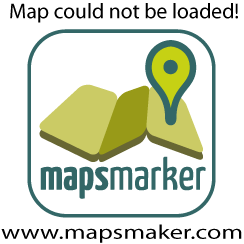
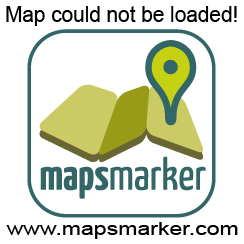
fix url in tile error image; add rel="nofollow" to qr-code-links

Changed region(s): [[0.0, 0.0, 0.9754, 0.1148], [0.0, 0.918, 1.0, 1.0]]

diff --git a/inc/showmap.php b/inc/showmap.php
@@ -210,7 +210,7 @@ if (basename($_SERVER['SCRIPT_FILENAME']) == 'showmap.php') { die ("Please do no
 				$lmm_out .= '<a href="' . LEAFLET_PLUGIN_URL . 'leaflet-fullscreen.php?marker=' . $id . '" style="text-decoration:none;" title="' . esc_attr__('Open standalone map in fullscreen mode','lmm') . '" target="_blank"><img src="' . LEAFLET_PLUGIN_URL . 'inc/img/icon-fullscreen.png" width="14" height="14" alt="Fullscreen-Logo" class="lmm-panel-api-images" /></a>';
 			}
 			if ( (isset($lmm_options[ 'defaults_marker_panel_qr_code' ] ) == TRUE ) && ( $lmm_options[ 'defaults_marker_panel_qr_code' ] == 1 ) ) {
-				$lmm_out .= '<a href="' . LEAFLET_PLUGIN_URL . 'leaflet-qr.php?marker=' . $id . '" target="_blank" title="' . esc_attr__('Create QR code image for standalone map in fullscreen mode','lmm') . '"><img src="' . LEAFLET_PLUGIN_URL . 'inc/img/icon-qr-code.png" width="14" height="14" alt="QR-code-logo" class="lmm-panel-api-images" /></a>';
+				$lmm_out .= '<a href="' . LEAFLET_PLUGIN_URL . 'leaflet-qr.php?marker=' . $id . '" target="_blank" title="' . esc_attr__('Create QR code image for standalone map in fullscreen mode','lmm') . '" rel="nofollow"><img src="' . LEAFLET_PLUGIN_URL . 'inc/img/icon-qr-code.png" width="14" height="14" alt="QR-code-logo" class="lmm-panel-api-images" /></a>';
 			}
 			if ( (isset($lmm_options[ 'defaults_marker_panel_geojson' ] ) == TRUE ) && ( $lmm_options[ 'defaults_marker_panel_geojson' ] == 1 ) ) {
 				$lmm_out .= '<a href="' . LEAFLET_PLUGIN_URL . 'leaflet-geojson.php?marker=' . $id . '&amp;callback=jsonp&amp;full=yes&amp;full_icon_url=yes" style="text-decoration:none;" title="' . esc_attr__('Export as GeoJSON','lmm') . '" target="_blank"><img src="' . LEAFLET_PLUGIN_URL . 'inc/img/icon-json.png" width="14" height="14" alt="GeoJSON-Logo" class="lmm-panel-api-images" /></a>';
@@ -234,7 +234,7 @@ if (basename($_SERVER['SCRIPT_FILENAME']) == 'showmap.php') { die ("Please do no
 				$lmm_out .= '<a href="' . LEAFLET_PLUGIN_URL . 'leaflet-fullscreen.php?layer=' . $id . '" style="text-decoration:none;" title="' . esc_attr__('Open standalone map in fullscreen mode','lmm') . '" target="_blank"><img src="' . LEAFLET_PLUGIN_URL . 'inc/img/icon-fullscreen.png" width="14" height="14" alt="Fullscreen-Logo" class="lmm-panel-api-images" /></a>';
 			}
 			if ( (isset($lmm_options[ 'defaults_layer_panel_qr_code' ] ) == TRUE ) && ( $lmm_options[ 'defaults_layer_panel_qr_code' ] == 1 ) ) {
-				$lmm_out .= '<a href="' . LEAFLET_PLUGIN_URL . 'leaflet-qr.php?layer=' . $id . '&amp;callback=jsonp&amp;full=yes&amp;full_icon_url=yes" target="_blank" title="' . esc_attr__('Create QR code image for standalone map in fullscreen mode','lmm') . '"><img src="' . LEAFLET_PLUGIN_URL . 'inc/img/icon-qr-code.png" width="14" height="14" alt="QR-code-logo" class="lmm-panel-api-images" /></a>';
+				$lmm_out .= '<a href="' . LEAFLET_PLUGIN_URL . 'leaflet-qr.php?layer=' . $id . '&amp;callback=jsonp&amp;full=yes&amp;full_icon_url=yes" target="_blank" title="' . esc_attr__('Create QR code image for standalone map in fullscreen mode','lmm') . '" rel="nofollow"><img src="' . LEAFLET_PLUGIN_URL . 'inc/img/icon-qr-code.png" width="14" height="14" alt="QR-code-logo" class="lmm-panel-api-images" /></a>';
 			}
 			if ( (isset($lmm_options[ 'defaults_layer_panel_geojson' ] ) == TRUE ) && ( $lmm_options[ 'defaults_layer_panel_geojson' ] == 1 ) && ($multi_layer_map == 0 ) ) {
 				$lmm_out .= '<a href="' . LEAFLET_PLUGIN_URL . 'leaflet-geojson.php?layer=' . $id . '&amp;callback=jsonp&amp;full=yes&amp;full_icon_url=yes" style="text-decoration:none;" title="' . esc_attr__('Export as GeoJSON','lmm') . '" target="_blank"><img src="' . LEAFLET_PLUGIN_URL . 'inc/img/icon-json.png" width="14" height="14" alt="GeoJSON-Logo" class="lmm-panel-api-images" /></a>';
@@ -393,7 +393,7 @@ if (basename($_SERVER['SCRIPT_FILENAME']) == 'showmap.php') { die ("Please do no
 			$lmm_out .= '&nbsp;<a href="' . LEAFLET_PLUGIN_URL . 'leaflet-kml.php?marker=' . $row['markerid'] . '&amp;name=' . $lmm_options[ 'misc_kml' ] . '" style="text-decoration:none;" title="' . esc_attr__('Export as KML for Google Earth/Google Maps','lmm') . '"><img src="' . LEAFLET_PLUGIN_URL . 'inc/img/icon-kml.png" width="14" height="14" alt="KML-Logo" class="lmm-panel-api-images" /></a>';
 		}
 		if ( (isset($lmm_options[ 'defaults_layer_listmarkers_api_qr_code' ] ) == TRUE ) && ( $lmm_options[ 'defaults_layer_listmarkers_api_qr_code' ] == 1 ) ) {
-			$lmm_out .= '&nbsp;<a href="' . LEAFLET_PLUGIN_URL . 'leaflet-qr.php?marker=' . $row['markerid'] . '&amp;callback=jsonp&amp;full=yes&amp;full_icon_url=yes" target="_blank" title="' . esc_attr__('Create QR code image for standalone map in fullscreen mode','lmm') . '"><img src="' . LEAFLET_PLUGIN_URL . 'inc/img/icon-qr-code.png" width="14" height="14" alt="QR-code-logo" class="lmm-panel-api-images" /></a>';
+			$lmm_out .= '&nbsp;<a href="' . LEAFLET_PLUGIN_URL . 'leaflet-qr.php?marker=' . $row['markerid'] . '&amp;callback=jsonp&amp;full=yes&amp;full_icon_url=yes" target="_blank" title="' . esc_attr__('Create QR code image for standalone map in fullscreen mode','lmm') . '" rel="nofollow"><img src="' . LEAFLET_PLUGIN_URL . 'inc/img/icon-qr-code.png" width="14" height="14" alt="QR-code-logo" class="lmm-panel-api-images" /></a>';
 		}
 		if ( (isset($lmm_options[ 'defaults_layer_listmarkers_api_geojson' ] ) == TRUE ) && ( $lmm_options[ 'defaults_layer_listmarkers_api_geojson' ] == 1 ) && ($multi_layer_map == 0 ) ) {
 			$lmm_out .= '&nbsp;<a href="' . LEAFLET_PLUGIN_URL . 'leaflet-geojson.php?marker=' . $row['markerid'] . '&amp;callback=jsonp&amp;full=yes&amp;full_icon_url=yes" style="text-decoration:none;" title="' . esc_attr__('Export as GeoJSON','lmm') . '" target="_blank"><img src="' . LEAFLET_PLUGIN_URL . 'inc/img/icon-json.png" width="14" height="14" alt="GeoJSON-Logo" class="lmm-panel-api-images" /></a>';

diff --git a/leaflet-fullscreen.php b/leaflet-fullscreen.php
@@ -163,7 +163,7 @@ if (isset($_GET['layer'])) {
 			$lmm_out .= '<a href="' . LEAFLET_PLUGIN_URL . 'leaflet-fullscreen.php?layer=' . $id . '" style="text-decoration:none;" title="' . esc_attr__('Open standalone map in fullscreen mode','lmm') . '" target="_blank"><img src="' . LEAFLET_PLUGIN_URL . 'inc/img/icon-fullscreen.png" width="14" height="14" alt="Fullscreen-Logo" class="lmm-panel-api-images" /></a>';
 		}
 		if ( (isset($lmm_options[ 'defaults_layer_panel_qr_code' ] ) == TRUE ) && ( $lmm_options[ 'defaults_layer_panel_qr_code' ] == 1 ) ) {
-			$lmm_out .= '<a href="' . LEAFLET_PLUGIN_URL . 'leaflet-qr.php?layer=' . $id . '" target="_blank" title="' . esc_attr__('Create QR code image for standalone map in fullscreen mode','lmm') . '"><img src="' . LEAFLET_PLUGIN_URL . 'inc/img/icon-qr-code.png" width="14" height="14" alt="QR-code-logo" class="lmm-panel-api-images" /></a>';
+			$lmm_out .= '<a href="' . LEAFLET_PLUGIN_URL . 'leaflet-qr.php?layer=' . $id . '" target="_blank" title="' . esc_attr__('Create QR code image for standalone map in fullscreen mode','lmm') . '" rel="nofollow"><img src="' . LEAFLET_PLUGIN_URL . 'inc/img/icon-qr-code.png" width="14" height="14" alt="QR-code-logo" class="lmm-panel-api-images" /></a>';
 		}
 		if ( (isset($lmm_options[ 'defaults_layer_panel_geojson' ] ) == TRUE ) && ( $lmm_options[ 'defaults_layer_panel_geojson' ] == 1 ) && ($multi_layer_map == 0) ) {
 			$lmm_out .= '<a href="' . LEAFLET_PLUGIN_URL . 'leaflet-geojson.php?layer=' . $id . '&amp;callback=jsonp&amp;full=yes&amp;full_icon_url=yes" style="text-decoration:none;" title="' . esc_attr__('Export as GeoJSON','lmm') . '" target="_blank"><img src="' . LEAFLET_PLUGIN_URL . 'inc/img/icon-json.png" width="14" height="14" alt="GeoJSON-Logo" class="lmm-panel-api-images" /></a>';
@@ -666,7 +666,7 @@ elseif (isset($_GET['marker'])) {
 			$lmm_out .= '<a href="' . LEAFLET_PLUGIN_URL . 'leaflet-fullscreen.php?marker=' . $id . '" style="text-decoration:none;" title="' . esc_attr__('Open standalone map in fullscreen mode','lmm') . '" target="_blank"><img src="' . LEAFLET_PLUGIN_URL . 'inc/img/icon-fullscreen.png" width="14" height="14" alt="Fullscreen-Logo" class="lmm-panel-api-images" /></a>';
 		}
 		if ( (isset($lmm_options[ 'defaults_marker_panel_qr_code' ] ) == TRUE ) && ( $lmm_options[ 'defaults_marker_panel_qr_code' ] == 1 ) ) {
-			$lmm_out .= '<a href="' . LEAFLET_PLUGIN_URL . 'leaflet-qr.php?marker=' . $id . '" target="_blank" title="' . esc_attr__('Create QR code image for standalone map in fullscreen mode','lmm') . '"><img src="' . LEAFLET_PLUGIN_URL . 'inc/img/icon-qr-code.png" width="14" height="14" alt="QR-code-logo" class="lmm-panel-api-images" /></a>';
+			$lmm_out .= '<a href="' . LEAFLET_PLUGIN_URL . 'leaflet-qr.php?marker=' . $id . '" target="_blank" title="' . esc_attr__('Create QR code image for standalone map in fullscreen mode','lmm') . '" rel="nofollow"><img src="' . LEAFLET_PLUGIN_URL . 'inc/img/icon-qr-code.png" width="14" height="14" alt="QR-code-logo" class="lmm-panel-api-images" /></a>';
 		}
 		if ( (isset($lmm_options[ 'defaults_marker_panel_geojson' ] ) == TRUE ) && ( $lmm_options[ 'defaults_marker_panel_geojson' ] == 1 ) ) {
 			$lmm_out .= '<a href="' . LEAFLET_PLUGIN_URL . 'leaflet-geojson.php?marker=' . $id . '&amp;callback=jsonp&amp;full=yes&amp;full_icon_url=yes" style="text-decoration:none;" title="' . esc_attr__('Export as GeoJSON','lmm') . '" target="_blank"><img src="' . LEAFLET_PLUGIN_URL . 'inc/img/icon-json.png" width="14" height="14" alt="GeoJSON-Logo" class="lmm-panel-api-images" /></a>';

diff --git a/inc/changelog.php b/inc/changelog.php
@@ -79,7 +79,7 @@ if (get_option('leafletmapsmarker_update_info') == 'show') {
 		</table>'.PHP_EOL;
 *************************************************************************************************************************************/
 
-		echo '<p style="margin:0.5em 0 0 0;"><strong>' . sprintf(__('Changelog for version %s','lmm'), '3.6.x') . '</strong> - ' . __('released on','lmm') . ' xx.08.2013 (<a href="http://www.mapsmarker.com/v3.6.x" target="_blank">' . __('blog post with more details about this release','lmm') . '</a>):</p>
+		echo '<p style="margin:0.5em 0 0 0;"><strong>' . sprintf(__('Changelog for version %s','lmm'), '3.6.7') . '</strong> - ' . __('released on','lmm') . ' xx.08.2013 (<a href="http://www.mapsmarker.com/v3.6.7" target="_blank">' . __('blog post with more details about this release','lmm') . '</a>):</p>
 		<table>
 		<tr><td>
 		<a href="' . LEAFLET_WP_ADMIN_URL . 'admin.php?page=leafletmapsmarker_pro_upgrade"  target="_top" title="' . esc_attr__('Upgrade to pro version for even more features - click here to find out how you can start a free 30-day-trial easily','lmm') . '"><img src="' . LEAFLET_PLUGIN_URL .'inc/img/icon-changelog-pro.png"></a>
@@ -94,12 +94,17 @@ if (get_option('leafletmapsmarker_update_info') == 'show') {
 		<tr><td>
 		<img src="' . LEAFLET_PLUGIN_URL .'inc/img/icon-changelog-changed.png">
 		</td><td>
-
+		
 		</td></tr>
 		<tr><td>
 		<img src="' . LEAFLET_PLUGIN_URL .'inc/img/icon-changelog-fixed.png">
 		</td><td>
 		alignment of panel and list marker icon images could be broken on certain themes
+		</td></tr>
+		<tr><td>
+		<img src="' . LEAFLET_PLUGIN_URL .'inc/img/icon-changelog-fixed.png">
+		</td><td>
+		default error tile image showed wrong www.mapsmarker.com url (ups)
 		</td></tr>
 		<tr><td colspan="2">
 		<p><strong>' . __('Translation updates','lmm') . '</a></p></strong>
@@ -112,6 +117,8 @@ if (get_option('leafletmapsmarker_update_info') == 'show') {
 		</td></tr>
 		</table>'.PHP_EOL;
 
+	if ( ( $lmm_version_old < '3.6.6' ) && ( $lmm_version_old > '0' ) ) {
+		echo '<p><hr noshade size="1"/></p>';
 		echo '<p style="margin:0.5em 0 0 0;"><strong>' . sprintf(__('Changelog for version %s','lmm'), '3.6.6') . '</strong> - ' . __('released on','lmm') . ' 09.10.2013 (<a href="http://www.mapsmarker.com/v3.6.6" target="_blank">' . __('blog post with more details about this release','lmm') . '</a>):</p>
 		<table>
 		<tr><td>
@@ -154,6 +161,7 @@ if (get_option('leafletmapsmarker_update_info') == 'show') {
 		updated Polish translation thanks to Tomasz Rudnicki, <a href="http://www.kochambieszczady.pl" target="_blank">http://www.kochambieszczady.pl</a>
 		</td></tr>
 		</table>'.PHP_EOL;
+	}
 
 	if ( ( $lmm_version_old < '3.6.5' ) && ( $lmm_version_old > '0' ) ) {
 		echo '<p><hr noshade size="1"/></p>';
